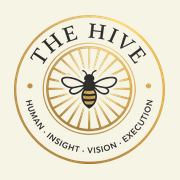
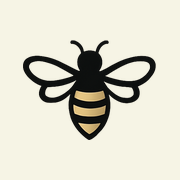
Rewrite the public site with current facts
Several claims on the first pass were out of date. Corrected:

- Queen Bee month is gone; we hear from everyone every month
- no 12-member cap, and no "it works because it's small"
- meetings are three parts: HIVE Hang, HIVE Help, Humdinger (HD wishing)
- "architects of creative abundance", a new help chosen each month

The bee replaces the seal as logo and favicon — it's the one that still
reads at 16px. H.I.V.E. is now spelled out large so nobody misses it,
with Nat's line: "Alone you're a bee. Together, we're the H.I.V.E."

Names the Trap Door Spider Society as Asimov called it in I, Asimov, and
credits Natalie for building on it.

Added: the members' app section, upcoming events, newsletter signup, HIVE
swag, and donating. Dropped the interest survey until we know where it
lands, plus the "here's what it isn't" line and the prominent
"start your own".

Changed region(s): [[0.0556, 0.0833, 0.9167, 0.9167]]

diff --git a/site/index.html b/site/index.html
@@ -57,7 +57,7 @@ a{color:inherit}
   background:rgba(255,253,245,.82);backdrop-filter:blur(14px);-webkit-backdrop-filter:blur(14px);
   border-bottom:1px solid rgba(189,147,72,.22)}
 .brand{display:flex;align-items:center;gap:10px;text-decoration:none;flex:none}
-.brand .bs{width:36px;height:36px;flex:none;background:url(assets/seal-sm.webp) center/contain no-repeat}
+.brand .bs{width:34px;height:26px;flex:none;background:url(assets/bee-sm.webp) center/contain no-repeat}
 .brand b{font-family:var(--serif);font-weight:700;font-size:1rem;letter-spacing:.06em;color:var(--charcoal)}
 .nav{display:flex;gap:4px;flex:1;justify-content:center;flex-wrap:wrap}
 .nav a{text-decoration:none;font-size:.85rem;color:var(--label);padding:8px 12px;border-radius:999px;transition:all .16s}
@@ -75,9 +75,9 @@ h1,h2,h3,h4{font-family:var(--serif);font-weight:700;color:var(--charcoal);margi
 
 /* ---------- hero ---------- */
 .hero{text-align:center;padding:54px 0 18px}
-.seal{width:min(280px,58vw);aspect-ratio:760/750;margin:0 auto 26px;
-  background:url(assets/seal.webp) center/contain no-repeat;
-  filter:drop-shadow(0 10px 28px rgba(138,106,47,.20))}
+.seal{width:min(220px,46vw);aspect-ratio:349/263;margin:0 auto 26px;
+  background:url(assets/bee.webp) center/contain no-repeat;
+  filter:drop-shadow(0 10px 24px rgba(138,106,47,.22))}
 .hero h1{font-size:clamp(1.9rem,4.8vw,3rem);line-height:1.16;margin:0 auto 16px;max-width:17ch;text-wrap:balance}
 .hero h1 em{font-style:italic;color:var(--deepgold)}
 .hero .sub{color:#5c5a54;font-size:1.08rem;margin:0 auto 30px;max-width:50ch;text-wrap:pretty}
@@ -138,13 +138,39 @@ h1,h2,h3,h4{font-family:var(--serif);font-weight:700;color:var(--charcoal);margi
 .join .panel{background:linear-gradient(165deg,var(--selected),var(--paper))}
 .join p.small{color:var(--label);font-size:.9rem;margin:18px 0 0}
 
+
+/* ---------- H.I.V.E. spelled out ---------- */
+.sr{position:absolute!important;width:1px!important;height:1px!important;padding:0!important;
+  margin:-1px!important;overflow:hidden!important;clip:rect(0,0,0,0)!important;white-space:nowrap!important;border:0!important}
+.letters{padding:44px 0 0}
+.lgrid{display:grid;grid-template-columns:repeat(4,1fr);gap:26px;text-align:left}
+.lt p.big{font-family:var(--serif);font-weight:400;font-size:clamp(1.6rem,3.4vw,2.3rem);
+  line-height:1;margin:0 0 12px;color:var(--gold)}
+.lt p.big b{font-weight:700;font-size:1.62em;line-height:.8;color:var(--charcoal)}
+.lt p{margin:0;font-size:.94rem;color:#5c5a54;line-height:1.6}
+.alone{font-family:var(--serif);font-style:italic;font-size:clamp(1.1rem,2.6vw,1.45rem);
+  color:var(--deepgold);text-align:center;margin:38px auto 0;max-width:26ch;line-height:1.5}
+
+/* ---------- three-up ---------- */
+.steps.three{grid-template-columns:repeat(3,1fr)}
+
+/* ---------- newsletter form ---------- */
+#subscribe{display:flex;gap:10px;justify-content:center;flex-wrap:wrap;margin-top:26px}
+#subscribe input{font-family:var(--sans);font-size:1rem;color:var(--charcoal);background:#fff;
+  border:1px solid rgba(189,147,72,.45);border-radius:999px;padding:14px 20px;min-width:min(300px,80vw)}
+#subscribe input:focus{outline:none;border-color:var(--gold);box-shadow:0 0 0 3px rgba(189,147,72,.16)}
+#subscribe input::placeholder{color:#a09274}
+#subscribe button{border:0;cursor:pointer;font-family:var(--sans)}
+.formnote{flex-basis:100%;margin:4px 0 0;font-size:.88rem;color:var(--label);min-height:1.3em}
+.formnote.good{color:#5a7d3a}
+
 /* ---------- footer ---------- */
 footer{margin-top:60px;border-top:1px solid rgba(189,147,72,.24);padding:28px 0 36px;text-align:center}
 footer p{margin:0 0 9px;font-size:.86rem;color:var(--label);line-height:1.55}
 footer p.who{font-family:var(--serif);font-weight:700;color:var(--charcoal);font-size:.95rem;margin-bottom:12px}
 footer a{color:var(--deepgold);text-decoration:none;border-bottom:1px solid rgba(189,147,72,.4)}
 footer a:hover{border-color:var(--deepgold)}
-footer .cross{margin:20px auto 0;max-width:48ch;padding:13px 20px;border-radius:12px;
+footer .cross{margin:20px auto 0;max-width:74ch;padding:9px 24px;border-radius:999px;font-size:.82rem;
   background:rgba(189,147,72,.08);border:1px solid rgba(189,147,72,.22);text-wrap:pretty}
 footer .cross b{font-family:var(--serif);color:var(--charcoal)}
 footer .copy{margin-top:16px;font-size:.76rem;color:var(--softink)}
@@ -159,6 +185,7 @@ footer .copy{margin-top:16px;font-size:.76rem;color:var(--softink)}
 
 @media (max-width:820px){
   .nav{display:none}
+  .lgrid{grid-template-columns:1fr 1fr;gap:22px}
   .menubtn{display:grid;place-items:center;position:relative;flex:none;width:42px;height:42px;padding:0;
     color:var(--charcoal);background:var(--paper);border:1px solid rgba(189,147,72,.4);
     border-radius:50%;cursor:pointer}
@@ -185,7 +212,8 @@ footer .copy{margin-top:16px;font-size:.76rem;color:var(--softink)}
 }
 @media (max-width:620px){
   .wrap{padding-left:18px;padding-right:18px}
-  .steps,.chapter{grid-template-columns:1fr}
+  .steps,.steps.three,.chapter{grid-template-columns:1fr}
+  .lgrid{grid-template-columns:1fr 1fr;gap:20px}
   .hero{padding:34px 0 12px}
   .sec,.origin,.join{padding-top:38px}
 }
@@ -197,13 +225,13 @@ footer .copy{margin-top:16px;font-size:.76rem;color:var(--softink)}
 
 <header class="topbar">
   <button class="menubtn" id="menubtn" type="button" aria-label="Open menu" aria-expanded="false" aria-controls="drawer"><span></span><span></span><span></span></button>
-  <a class="brand" href="#top"><span class="bs" role="img" aria-label="The HIVE seal"></span><b>HIVE</b></a>
+  <a class="brand" href="#top"><span class="bs" role="img" aria-label="The HIVE bee"></span><b>HIVE</b></a>
   <nav class="nav" aria-label="Main">
     <a href="#what">What it is</a>
-    <a href="#how">How it works</a>
+    <a href="#meet">How we meet</a>
     <a href="#origin">Where it came from</a>
-    <a href="#chapters">Chapters</a>
-    <a href="#join">Join</a>
+    <a href="#newsletter">Newsletter</a>
+    <a href="#support">Support us</a>
   </nav>
   <a class="login" href="https://app.the-hive.app/login">Member log in</a>
 </header>
@@ -212,67 +240,75 @@ footer .copy{margin-top:16px;font-size:.76rem;color:var(--softink)}
   <nav class="drawerpanel" aria-label="Menu">
     <p class="t">HIVE</p>
     <a href="#what">What it is</a>
-    <a href="#how">How it works</a>
+    <a href="#meet">How we meet</a>
     <a href="#origin">Where it came from</a>
-    <a href="#chapters">Chapters</a>
-    <a href="#join">Join</a>
+    <a href="#newsletter">Newsletter</a>
+    <a href="#support">Support us</a>
     <a href="https://app.the-hive.app/login">Member log in &rarr;</a>
   </nav>
 </div>
 
 <header class="hero wrap" id="top">
-  <div class="seal" role="img" aria-label="The HIVE — human, insight, vision, execution"></div>
-  <h1>Brilliant minds don't just network. <em>They build.</em></h1>
-  <p class="sub">HIVE is a small community where people work out what they actually want —
-    then the people around them make it happen.</p>
+  <div class="seal" role="img" aria-label="The HIVE bee"></div>
+  <h1>Where brilliant minds don't just network. <em>They build.</em></h1>
+  <p class="sub">Architects of creative abundance. We meet every month, we hear from
+    everyone, and we choose a new help to make happen.</p>
   <div class="cta">
-    <a class="btn solid" href="https://nesolagus-suite-studio.vercel.app/saas/the-hive/the-hive-founding-member-application-6">Take the interest survey <i>&rarr;</i></a>
-    <a class="btn ghost" href="#what">How it works <i>&rarr;</i></a>
+    <a class="btn solid" href="#what">What we do <i>&rarr;</i></a>
+    <a class="btn ghost" href="#newsletter">Get the newsletter <i>&rarr;</i></a>
   </div>
-  <p class="motto">Human · Insight · Vision · Execution</p>
 </header>
+
+<section class="letters wrap" id="letters" aria-labelledby="letters-h">
+  <h2 id="letters-h" class="sr">What HIVE stands for</h2>
+  <div class="lgrid">
+    <div class="lt"><p class="big"><b>H</b>uman</p><p>The humans behind it. Inspired by Isaac Asimov&rsquo;s Trap Door Spider Society, Natalie Walstead took the idea and modernised it for a faster world.</p></div>
+    <div class="lt"><p class="big"><b>I</b>nsight</p><p>A hurdle for you might be someone else&rsquo;s hobby. An insurmountable mountain for you might be somebody&rsquo;s Tuesday. Everyone brings a different one.</p></div>
+    <div class="lt"><p class="big"><b>V</b>ision</p><p>The first HIVE is local to Las Vegas, but the vision is wider than that, and open to anyone. We&rsquo;re stronger together.</p></div>
+    <div class="lt"><p class="big"><b>E</b>xecution</p><p>We meet monthly to brainstorm and then actually do it. Join in person or virtually, and catch up on anything you missed in the app.</p></div>
+  </div>
+  <p class="alone">&ldquo;Alone you&rsquo;re a bee. Together, we&rsquo;re the H.I.V.E.&rdquo;</p>
+</section>
 
 <section class="sec wrap" id="what" aria-labelledby="what-h">
   <div class="panel">
     <p class="eyebrow">What it is</p>
-    <h2 id="what-h">Most people never say the thing out loud</h2>
-    <p class="lede">Asking for help is the hard part. Not because nobody would help — because
-      it's difficult to say precisely what you need, and a vague ask is impossible to answer.</p>
-    <p class="lede" style="margin-top:14px">HIVE fixes the asking. You talk it through until the wish is
-      specific enough to be granted — not <em>"I want to be healthier"</em> but
-      <em>"I want someone to teach me three twenty-minute meals I can prep on a Sunday."</em>
-      That version has an answer. Somebody in the room can grant it this week.</p>
+    <h2 id="what-h">There is already enough to go around</h2>
+    <p class="lede">What stops you cold is somebody else&rsquo;s Tuesday afternoon. The mountain
+      you&rsquo;ve been staring at is a molehill to the person sitting across from you — and the thing
+      they&rsquo;re stuck on is the thing you happen to do for fun.</p>
+    <p class="lede" style="margin-top:14px">Between us we have almost everything anyone needs.
+      It just sits scattered across a dozen heads, and nobody knows what anybody else can do.
+      HIVE pools it.</p>
+    <p class="lede" style="margin-top:14px">The other half is the asking. You talk it through until the
+      wish is specific enough to be granted — not <em>&ldquo;I want to be healthier&rdquo;</em> but
+      <em>&ldquo;I want someone to teach me three twenty-minute meals I can prep on a Sunday.&rdquo;</em>
+      That version has an answer, and somebody in the room can grant it this week.</p>
   </div>
 </section>
 
-<section class="sec wrap" id="how" aria-labelledby="how-h">
-  <p class="eyebrow">How it works</p>
-  <h2 id="how-h">Four things that make it work</h2>
-  <p class="lede">None of them are complicated. All of them are deliberate.</p>
-  <div class="steps">
+<section class="sec wrap" id="meet" aria-labelledby="meet-h">
+  <p class="eyebrow">How we meet</p>
+  <h2 id="meet-h">Every month, three things</h2>
+  <p class="lede">We hear from everyone, every time. Nobody waits their turn.</p>
+  <div class="steps three">
     <div class="step">
       <div class="cell">01</div>
-      <h3>Wishes in high definition</h3>
-      <p>A wish nobody can act on isn't a wish, it's a mood. You refine it until it's specific,
-        small enough to say yes to, and obvious who might help.</p>
+      <h3>HIVE Hang</h3>
+      <p>The part where we&rsquo;re just people who like each other. Catching up, in person or on a
+        screen, before anybody talks about projects.</p>
     </div>
     <div class="step">
       <div class="cell">02</div>
-      <h3>Everyone gets a month</h3>
-      <p>Each member takes a turn as Queen Bee. For that month the community's attention is on
-        your project. It comes round to everyone, so nobody has to compete for it.</p>
+      <h3>HIVE Help</h3>
+      <p>We choose a help to make happen this month, and everybody puts something toward it.
+        One thing, done properly, rather than a dozen half-offers.</p>
     </div>
     <div class="step">
       <div class="cell">03</div>
-      <h3>Floors, not ceilings</h3>
-      <p>You say what would be enough, not the most you could extract. It keeps the asking honest
-        and makes granting feel good rather than expensive.</p>
-    </div>
-    <div class="step">
-      <div class="cell">04</div>
-      <h3>Granting is the fun part</h3>
-      <p>Wishing feels exposing. Granting feels great. That asymmetry is the engine —
-        everyone would rather be the one who made it happen.</p>
+      <h3>Humdinger</h3>
+      <p>High-definition wishing. Everyone brings the thing they&rsquo;re stuck on and we sharpen it
+        together until it&rsquo;s specific enough for somebody to grant.</p>
     </div>
   </div>
 </section>
@@ -283,53 +319,75 @@ footer .copy{margin-top:16px;font-size:.76rem;color:var(--softink)}
     <h2 id="origin-h" style="margin-bottom:18px">With thanks to Isaac Asimov</h2>
     <blockquote>Once a month, a group of friends met for dinner. Every member brought a guest —
       and the whole evening was spent drawing that one person out.</blockquote>
-    <p>Asimov spent years at a monthly dinner club in New York, and turned it into fiction as the
-      <strong>Black Widowers</strong> — a series of stories where a guest arrives with a problem
-      they can't solve, gets thoroughly questioned over dinner, and leaves with an answer none of
-      them had on their own.</p>
-    <p>That's the shape of this. One person at the centre. Everyone else's attention pointed at
-      them. A problem that gets solved because it was finally described properly, out loud, to
-      people who wanted to help.</p>
-    <p>HIVE takes that structure and gives it a modern form — a month each instead of an evening,
-      and a system that helps you find the words. <strong>Same idea, better tools, and a table
-      that's open to everyone.</strong></p>
+    <p>Asimov spent years at a monthly dinner club in New York. In his autobiography
+      <em>I, Asimov</em> he wrote about it as the <strong>Trap Door Spider Society</strong>, and he
+      turned it into fiction as the <strong>Black Widowers</strong> — stories where a guest arrives
+      with a problem he can&rsquo;t solve, gets thoroughly questioned over dinner, and leaves with an
+      answer none of them had on their own.</p>
+    <p>That&rsquo;s the shape of this. Attention pointed at one person at a time. A problem that gets
+      solved because it was finally described properly, out loud, to people who wanted to help.</p>
+    <p><strong>Natalie Walstead took that idea and built on it</strong> — the same structure, brought
+      into a faster world, with the tools to keep it going between dinners, and a table that&rsquo;s
+      open to everyone.</p>
   </div>
 </section>
 
-<section class="sec wrap" id="chapters" aria-labelledby="chapters-h">
-  <p class="eyebrow">Chapters</p>
-  <h2 id="chapters-h">It works because it's small</h2>
-  <p class="lede">A HIVE is about a dozen people. Small enough that everyone gets a turn and
-    nobody is anonymous.</p>
+<section class="sec wrap" id="app" aria-labelledby="app-h">
+  <div class="panel">
+    <p class="eyebrow">The members&rsquo; app</p>
+    <h2 id="app-h">Nobody has to be in the room</h2>
+    <p class="lede">Life doesn&rsquo;t schedule itself around a monthly meeting. The app is how HIVE keeps
+      working when we&rsquo;re not all together — catch up on a meeting you missed, sharpen a wish
+      whenever it occurs to you, and pick up the thread on your own time.</p>
+    <div class="cta" style="margin-top:26px">
+      <a class="btn solid" href="https://app.the-hive.app/login">Member log in <i>&rarr;</i></a>
+    </div>
+  </div>
+</section>
+
+<section class="sec wrap" id="events" aria-labelledby="events-h">
+  <p class="eyebrow">What&rsquo;s coming up</p>
+  <h2 id="events-h">Upcoming events</h2>
+  <p class="lede">Members mark events public or private inside the app. The public ones show up
+    here — so if you&rsquo;re curious about us, this is where to look.</p>
+  <div class="panel" style="margin-top:26px;text-align:center">
+    <p style="margin:0;color:#5c5a54">Nothing public on the calendar just now.
+      <a href="mailto:NatWalstead@gmail.com?subject=Honey%2C%20we%20have%20a%20message!%20%F0%9F%8D%AF" style="color:var(--deepgold);font-weight:700">Ask us what&rsquo;s next &rarr;</a></p>
+  </div>
+</section>
+
+<section class="sec wrap" id="newsletter" aria-labelledby="news-h">
+  <div class="panel">
+    <p class="eyebrow">The newsletter</p>
+    <h2 id="news-h">What the HIVE got up to</h2>
+    <p class="lede">Once a month: what we worked on, what got granted, and what we learned doing it.
+      No noise, and nothing else.</p>
+    <form id="subscribe" novalidate>
+      <label class="sr" for="email">Your email</label>
+      <input id="email" name="email" type="email" placeholder="you@example.com" autocomplete="email" required>
+      <button class="btn solid" type="submit">Sign me up <i>&rarr;</i></button>
+      <p class="formnote" id="subnote" role="status" aria-live="polite"></p>
+    </form>
+  </div>
+</section>
+
+<section class="sec wrap" id="support" aria-labelledby="support-h">
+  <p class="eyebrow">Support us</p>
+  <h2 id="support-h">Two ways, if you&rsquo;d like to</h2>
   <div class="chapter">
     <div class="card">
-      <h3>Apis Mellifera</h3>
-      <p class="where">Las Vegas, Nevada · Our flagship</p>
-      <p>The first HIVE, named for the western honey bee. Meets monthly, keeps a Honey Pot,
-        and has been proving the format since the beginning.</p>
-      <a class="more" href="#join">Ask about joining &rarr;</a>
+      <h3>Wear the bee</h3>
+      <p class="where">HIVE swag</p>
+      <p>Shirts and bits with the bee on them. More coming.</p>
+      <a class="more" href="https://thenateffect.etsy.com/listing/4520881664">See the swag &rarr;</a>
     </div>
     <div class="card">
-      <h3>Start your own</h3>
-      <p class="where">Anywhere · A dozen people</p>
-      <p>Bring together the people you'd want in the room and run your own chapter, with the
-        same tools and the same rhythm. We'll help you set it up.</p>
-      <a class="more" href="mailto:NatWalstead@gmail.com?subject=Honey%2C%20we%20have%20a%20message!%20%F0%9F%8D%AF">Tell us about your people &rarr;</a>
+      <h3>Chip in</h3>
+      <p class="where">The Honey Pot</p>
+      <p>We keep a small pot that pays for the things we decide to make happen. If you&rsquo;d like to
+        add to it, say hello and we&rsquo;ll tell you how.</p>
+      <a class="more" href="mailto:NatWalstead@gmail.com?subject=I%27d%20like%20to%20donate%20to%20HIVE%20%F0%9F%8D%AF">Talk to us about donating &rarr;</a>
     </div>
-  </div>
-</section>
-
-<section class="join wrap" id="join" aria-labelledby="join-h">
-  <div class="panel">
-    <p class="eyebrow">Join</p>
-    <h2 id="join-h">Tell us what you'd wish for</h2>
-    <p class="lede">The interest survey takes about fifteen minutes. It's mostly questions about
-      what you're good at and what you're stuck on — which is the whole thing, really.</p>
-    <div class="cta" style="margin-top:26px">
-      <a class="btn solid" href="https://nesolagus-suite-studio.vercel.app/saas/the-hive/the-hive-founding-member-application-6">Take the interest survey <i>&rarr;</i></a>
-      <a class="btn ghost" href="mailto:NatWalstead@gmail.com?subject=Honey%2C%20we%20have%20a%20message!%20%F0%9F%8D%AF">Email us instead</a>
-    </div>
-    <p class="small">Already a member? <a href="https://app.the-hive.app/login" style="color:var(--deepgold);font-weight:700">Log in here.</a></p>
   </div>
 </section>
 
@@ -450,6 +508,23 @@ footer .copy{margin-top:16px;font-size:.76rem;color:var(--softink)}
   toTop.addEventListener('click', function () {
     window.scrollTo({ top: 0, behavior: reduce ? 'auto' : 'smooth' });
   });
+  /* newsletter — composes an email until there's a real handler */
+  var sub = document.getElementById('subscribe'), note = document.getElementById('subnote');
+  sub.addEventListener('submit', function (e) {
+    e.preventDefault();
+    var v = document.getElementById('email').value.trim();
+    if (!/^[^@\s]+@[^@\s]+\.[^@\s]+$/.test(v)) {
+      note.className = 'formnote';
+      note.textContent = 'That email doesn\u2019t look quite right \u2014 mind checking it?';
+      return;
+    }
+    note.className = 'formnote good';
+    note.textContent = 'Opening your mail app to confirm\u2026';
+    window.location.href = 'mailto:NatWalstead@gmail.com'
+      + '?subject=' + encodeURIComponent('Add me to the HIVE newsletter \uD83C\uDF6F')
+      + '&body=' + encodeURIComponent('Please add ' + v + ' to the HIVE newsletter.');
+  });
+
   addEventListener('scroll', function () {
     toTop.classList.toggle('show', (window.scrollY || document.documentElement.scrollTop) > 420);
   }, { passive: true });
